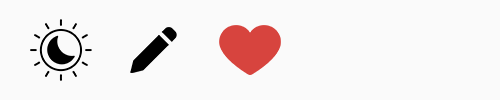
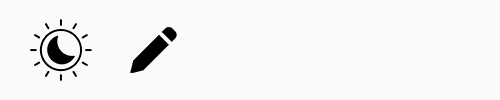
Add health display

Changed region(s): [[0.42, 0.24, 0.57, 0.75]]

diff --git a/main.py b/main.py
@@ -23,7 +23,8 @@ paths = {
         'game_ui_white': 'img\GameUIWhite.png',
         'game_ui_dark': 'img\GameUIDark.png',
         'end_screen': 'img\EndScreen.png',
-        'boards': 'boards.json'
+        'boards': 'boards.json',
+        'health': {3: 'img\heart_100.png', 2: 'img\heart_66.png', 1: 'img\heart_33.png'}
     },
     'ios':{
         'ui_main_menu': 'Projekt_Sudoku/img/MainMenuTemplate.png',
@@ -31,7 +32,8 @@ paths = {
         'game_ui_white': 'Projekt_Sudoku/img/GameUIWhite.png',
         'game_ui_dark': 'Projekt_Sudoku/img/GameUIDark.png',
         'end_screen': 'Projekt_Sudoku/img/EndScreen.png',
-        'boards': 'Projekt_Sudoku/boards.json'
+        'boards': 'Projekt_Sudoku/boards.json',
+        'health': {3: '', 2: ' ', 1: ' '}
     }
 }
 
@@ -270,6 +272,11 @@ def draw_time(start_ticks, recent_time=0):
     screen.blit(text, (310, 522))
     return (time)
 
+def draw_health(health):
+    print(health)
+
+    img = pygame.image.load(paths[current_platform]['health'][health])
+    screen.blit(img,(220, 520))
 
 def main_menu():
     #Main menu funtion
@@ -337,14 +344,16 @@ def game():
     run = True
     while run:
         global value
-
+        debug_mouse_position()
         value = 0
         #This section draws the highlighted cells in the correct order in order to draw highlight behind the sudoku grid
         screen.fill(colour_themes[current_theme]['background_colour'])
         ui = pygame.image.load(colour_themes[current_theme]['ui']) #loads Game UI
         draw_highlighted_cells()
         draw_grid(board['value'])
+        
         screen.blit(ui, (0, 500)) #draw Game UI
+        draw_health(health)
 
 
         for event in pygame.event.get():
